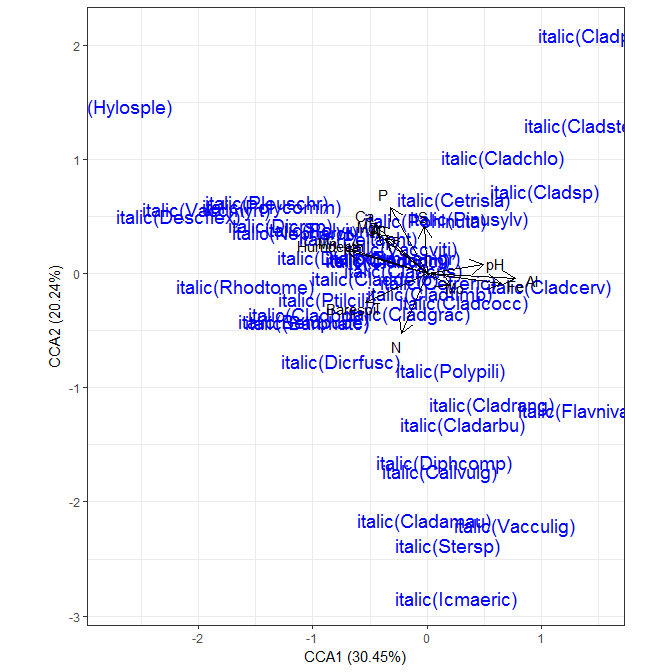
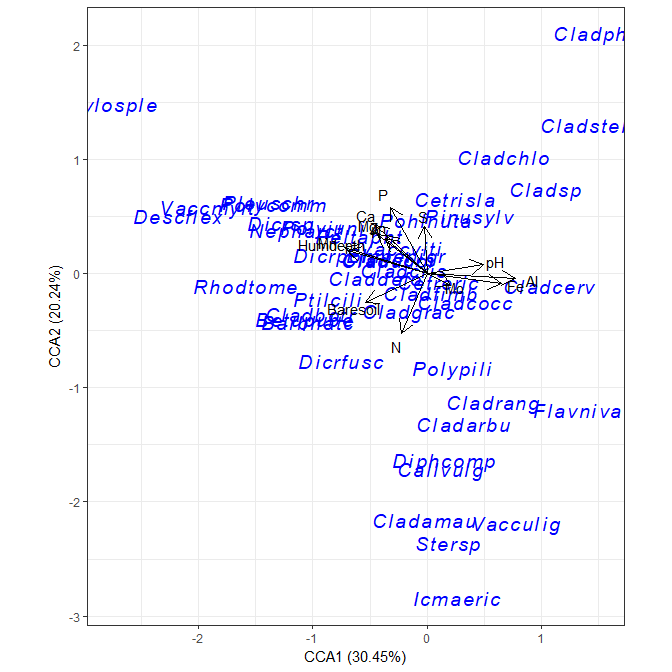
parse labs in examples

diff --git a/README.html b/README.html
@@ -283,7 +283,7 @@ ggord(ord)</code></pre>
 <p><img src="README_files/figure-html/unnamed-chunk-3-22.png" /><!-- --></p>
 <pre class="r"><code># species points as text
 # suppress site points
-ggord(ord, ptslab = TRUE, size = NA, addsize = 5)</code></pre>
+ggord(ord, ptslab = TRUE, size = NA, addsize = 5, parse = TRUE)</code></pre>
 <p><img src="README_files/figure-html/unnamed-chunk-3-23.png" /><!-- --></p>
 </div>
 </div>

diff --git a/README.md b/README.md
@@ -263,7 +263,7 @@ ggord(ord)
 ```r
 # species points as text
 # suppress site points
-ggord(ord, ptslab = TRUE, size = NA, addsize = 5)
+ggord(ord, ptslab = TRUE, size = NA, addsize = 5, parse = TRUE)
 ```
 
 ![](README_files/figure-html/unnamed-chunk-3-23.png)<!-- -->
